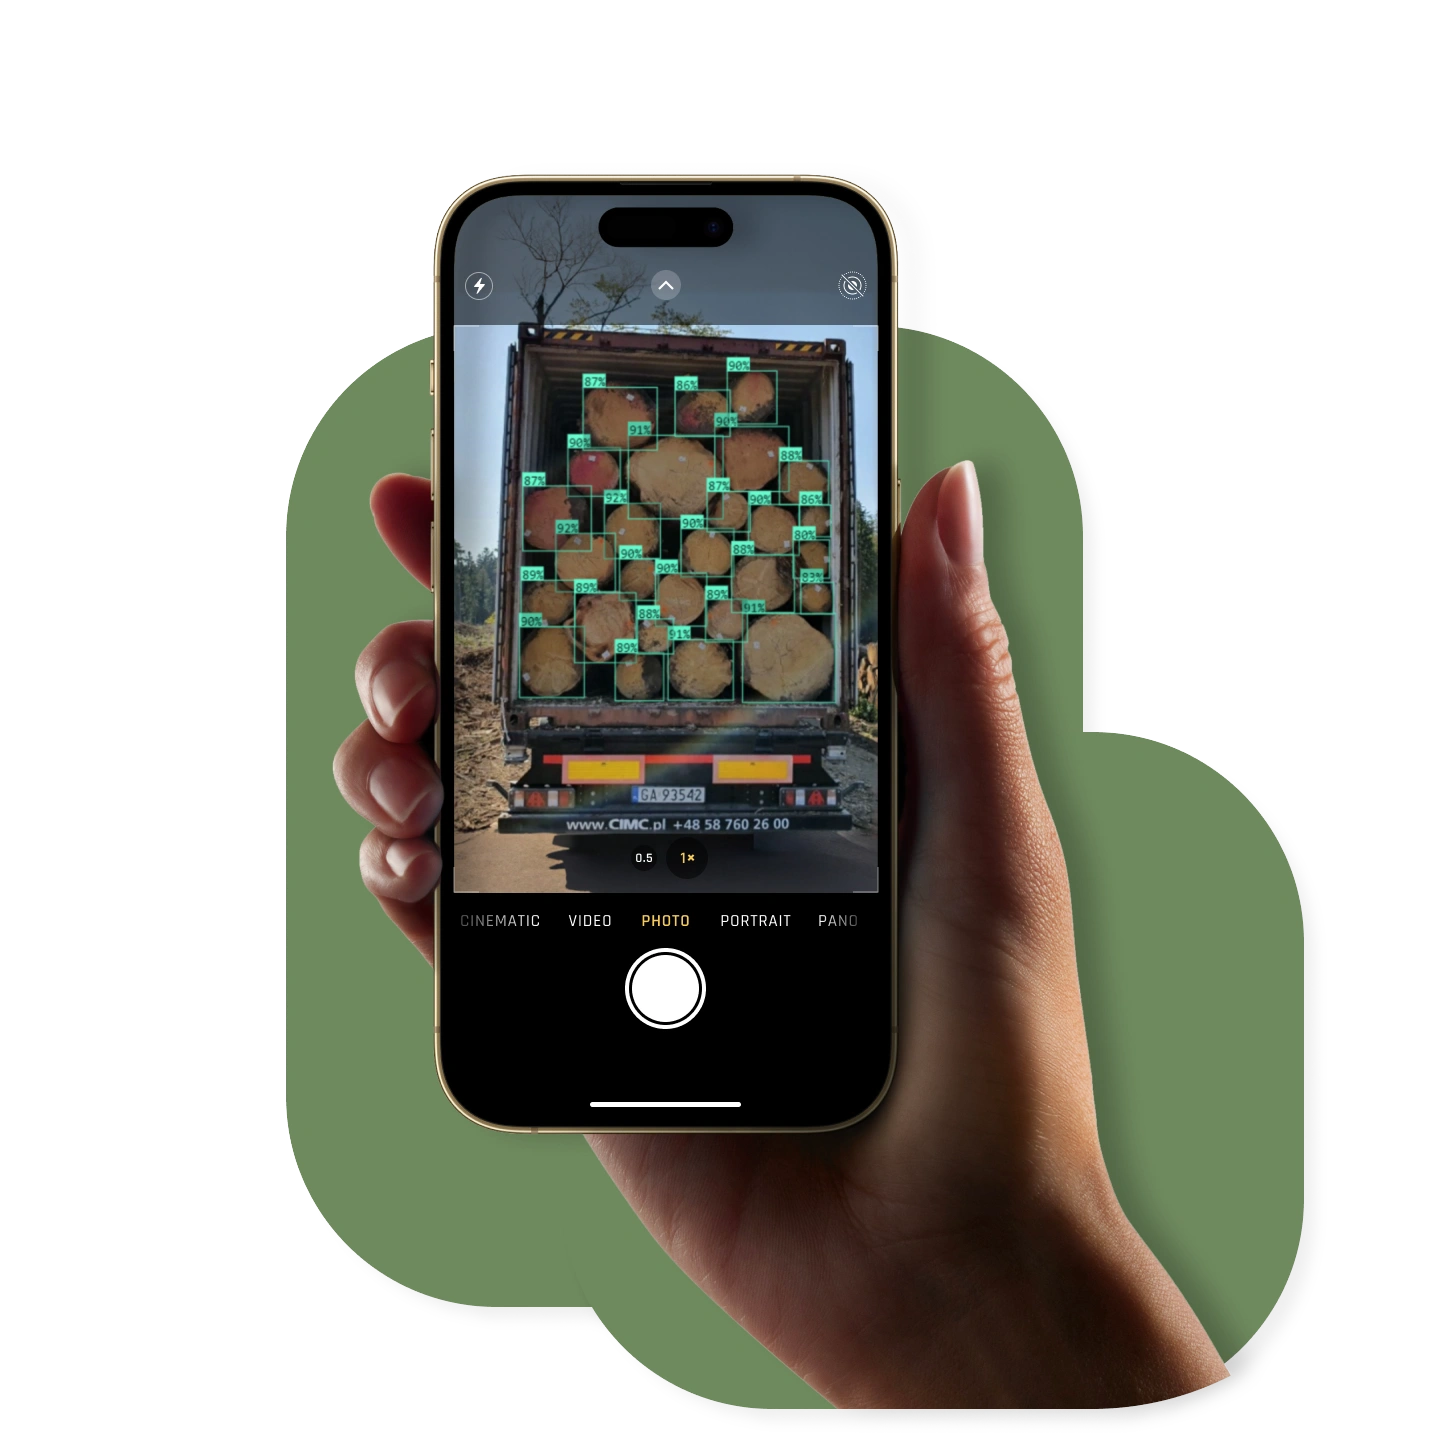
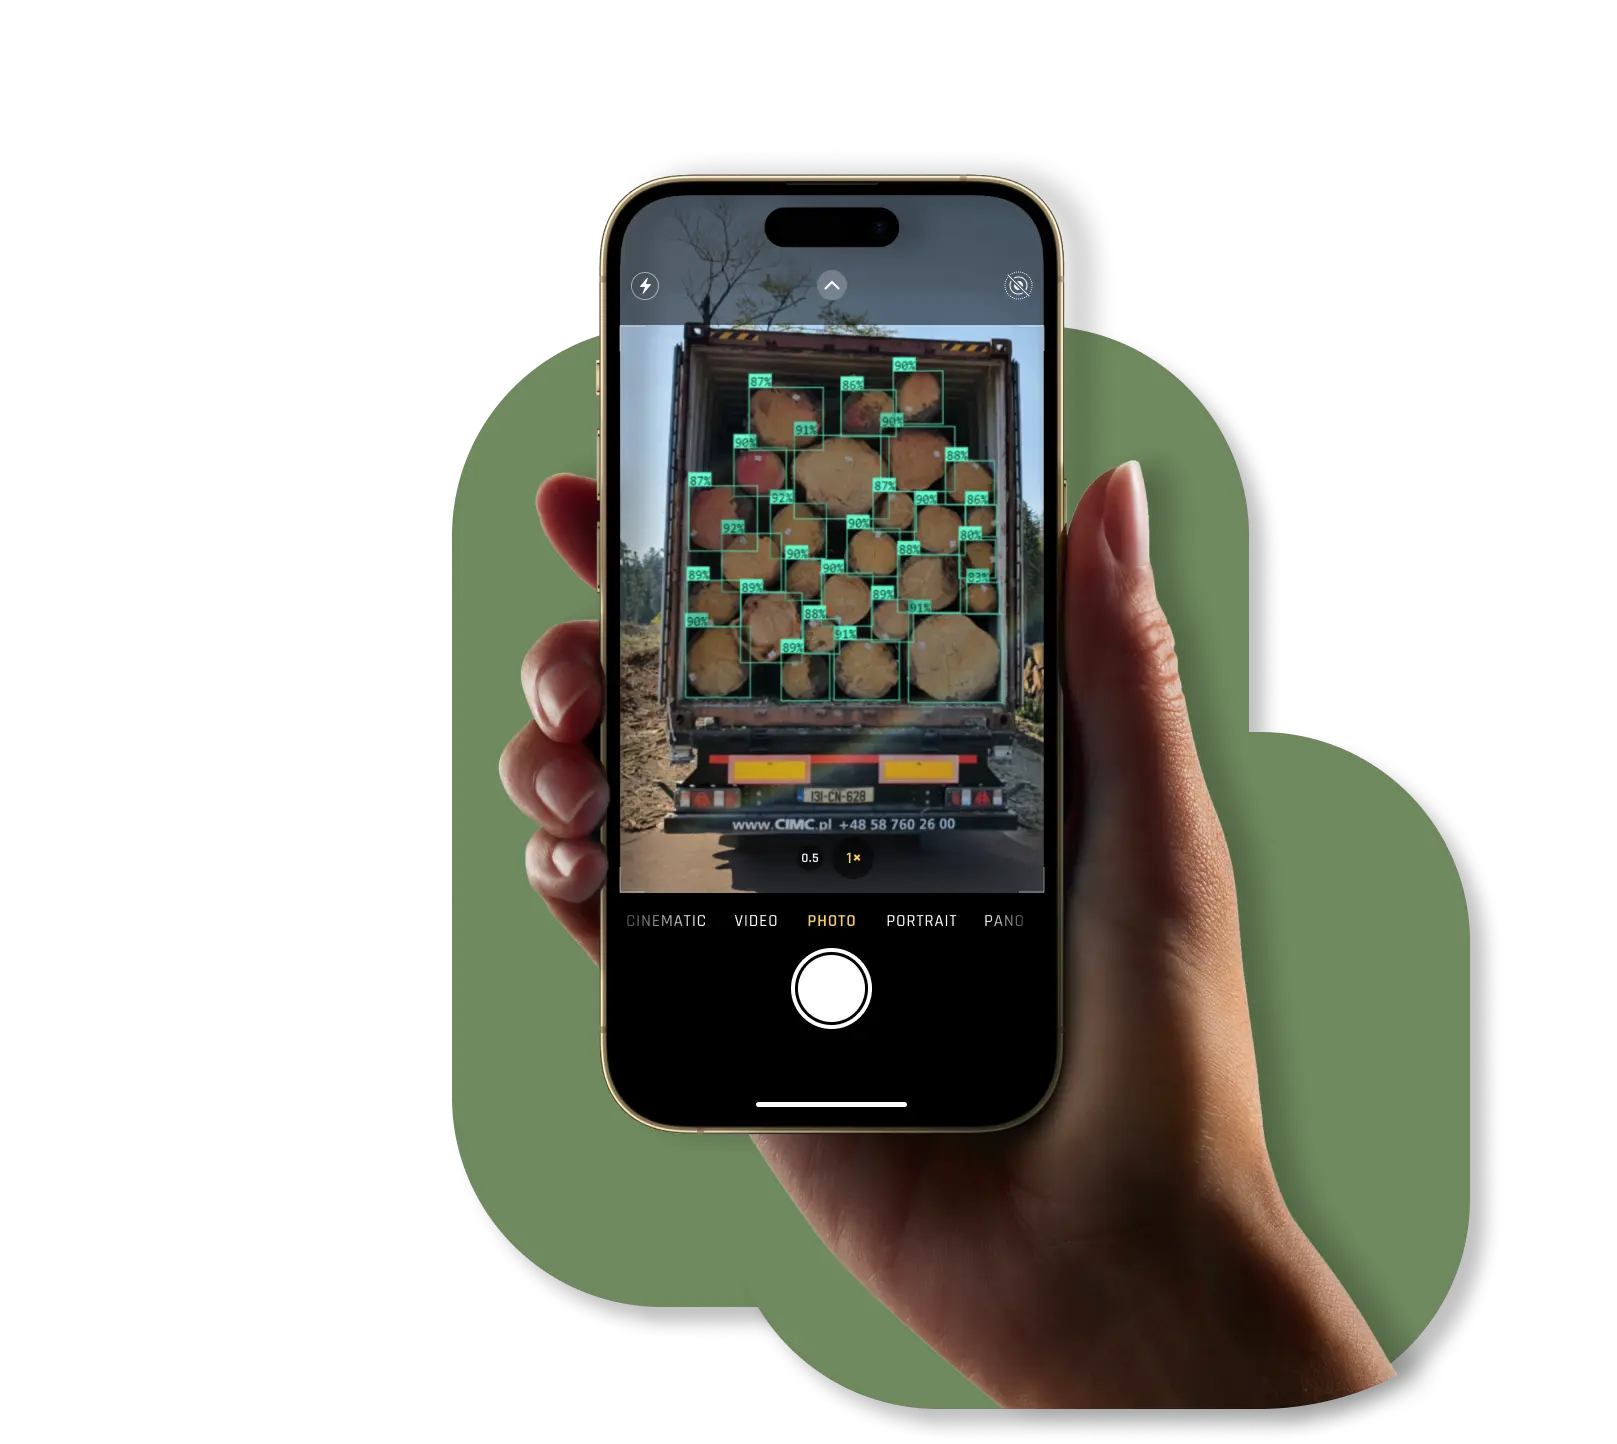
Updated License Plate Image & Changed Demo Placement

diff --git a/New Website/src/components/Info.vue b/New Website/src/components/Info.vue
@@ -18,8 +18,16 @@
 
     <section class="bg-custom-white py-20 mt-2 lg:mt-14 overflow-hidden">
         <!-- Feature #1 -->
+
         <div class="relative mt-0">
         <div class="container max-w-screen-xl mx-auto flex flex-col lg:flex-row-reverse items-center justify-between gap-x-22 px-4">
+                <!-- Image -->
+                <div class="flex flex-1 justify-centre ml-0 mr-0 z-10 mb-0 lg:mb-0">
+                    <br>
+                <br>
+                <div style="position: relative; padding-bottom: calc(95% + 41px); height: 0; width: 100%;"><iframe src="https://demo.arcade.software/jrcHccSQHpvXd0wCZcCJ?embed&show_copy_link=true" title="Docket Submission
+                    " frameborder="0" loading="lazy" webkitallowfullscreen mozallowfullscreen allowfullscreen allow="clipboard-write" style="position: absolute; top: 0; left: 0; width: 100%; height: 100%;color-scheme: light;"></iframe></div>
+                </div>
             <!-- Content -->
             <div class="flex flex-1 flex-col items-center lg:items-start">
                 <h1 class="text-3xl text-custom-black">Digital Dockets</h1>
@@ -38,10 +46,6 @@
                 <p class="text-sm text-custom-grey mt-6 text-center lg:text-left sm:w-3/4 lg:w-full">
                     Our docket system is based on the standards set in the <a href="https://www.itga.ie/images/pdf/MTSSApril2010.pdf" class="text-custom-black underline">ITGA Manual Timber Sales System (MTSS)</a> by the Irish Timber Growers Association (ITGA).
                 </p>
-                <br>
-                <br>
-                <div style="position: relative; padding-bottom: calc(60% + 41px); height: 0; width: 100%;"><iframe src="https://demo.arcade.software/jrcHccSQHpvXd0wCZcCJ?embed&show_copy_link=true" title="Docket Submission
-                    " frameborder="0" loading="lazy" webkitallowfullscreen mozallowfullscreen allowfullscreen allow="clipboard-write" style="position: absolute; top: 0; left: 0; width: 100%; height: 100%;color-scheme: light;"></iframe></div>
             </div>
         </div>
 
@@ -78,6 +82,14 @@
         <!-- Feature #1 -->
         <div class="relative mt-0">
         <div class="container max-w-screen-xl mx-auto flex flex-col lg:flex-row-reverse items-center justify-between gap-x-22 px-4">
+                <!-- Image -->
+                <div class="flex flex-1 justify-centre ml-10 mr-0 z-10 mb-0 lg:mb-0">
+                <br>
+                <br>
+                <!-- Arcade Dashboard Demo -->
+                <div style="position: relative; padding-bottom: calc(60% + 41px); height: 0; width: 100%;"><iframe src="https://demo.arcade.software/o1VgfJm9P38oWGWxnBVq?embed&show_copy_link=true" title="LogWatch" frameborder="0" loading="lazy" webkitallowfullscreen mozallowfullscreen allowfullscreen allow="clipboard-write" style="position: absolute; top: 0; left: 0; width: 100%; height: 100%;color-scheme: light;"></iframe></div>
+                </div>
+            
             <!-- Content -->
             <div class="flex flex-1 flex-col items-center lg:items-start">
                 <h1 class="text-3xl text-custom-black">Centralised Dashboard</h1>
@@ -93,8 +105,6 @@
                 </ul>
                 <br>
                 <br>
-                <!-- Arcade Dashboard Demo -->
-                <div style="position: relative; padding-bottom: calc(40% + 41px); height: 0; width: 100%;"><iframe src="https://demo.arcade.software/o1VgfJm9P38oWGWxnBVq?embed&show_copy_link=true" title="LogWatch" frameborder="0" loading="lazy" webkitallowfullscreen mozallowfullscreen allowfullscreen allow="clipboard-write" style="position: absolute; top: 0; left: 0; width: 100%; height: 100%;color-scheme: light;"></iframe></div>
 
                 <br>
             </div>
@@ -127,6 +137,9 @@
 </template>
 
 <script setup>
+import { reactive } from 'vue'
+import { ref } from 'vue'
+
 
 </script>
 
